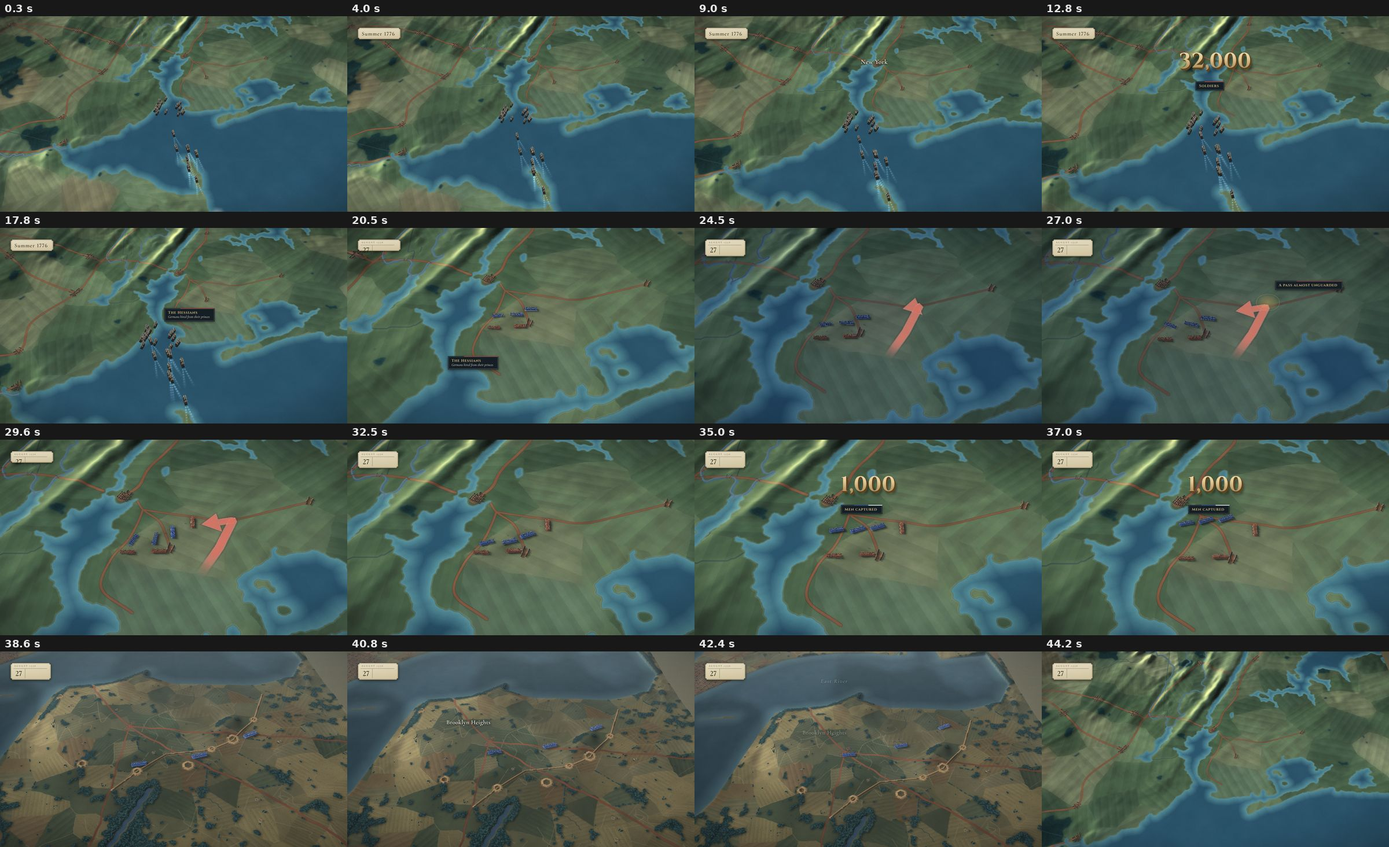
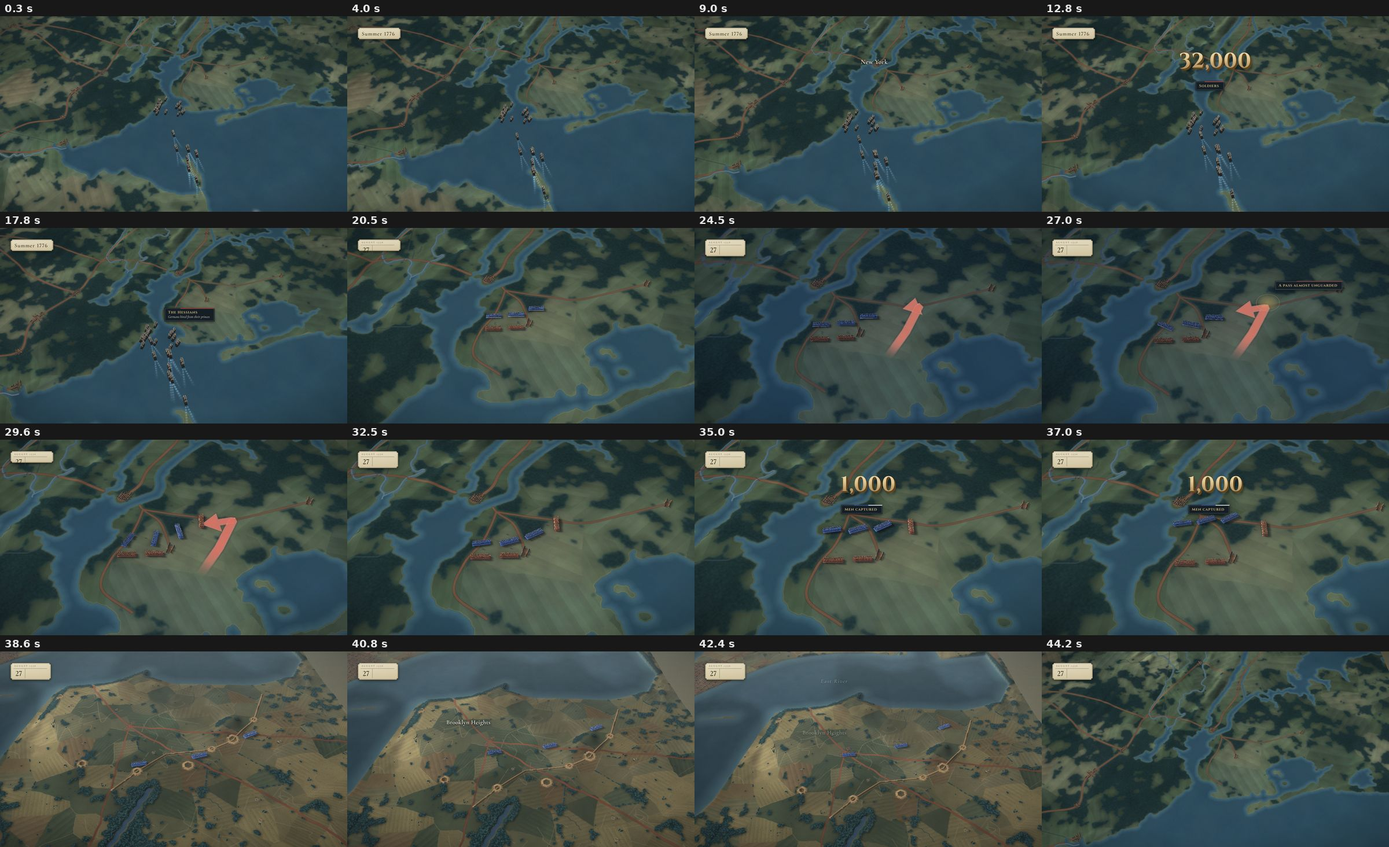
Washington: round-1 fixes S01 S02 S08 (author A)
Claude-Session: https://claude.ai/code/session_011uJnjBmWWPVu63DLzFZfyj

diff --git a/washington/sequences/S08/seq.js b/washington/sequences/S08/seq.js
@@ -68,7 +68,7 @@ window.SEQ = {
   generals: { washington: { img: "seq/washington.png", flag: "seq/grand_union_flag.png", side: "us", name: "Washington", full: "George Washington", role: "General" } },
   banners: [{ general: "washington", region: CO, keys: [[0, B0[0] + 7, B0[1] + 2], [0.4, B0[0] + 7, B0[1] + 2], [9.4, B1[0] + 7, B1[1] + 2]], t0: T.washington - 0.05, t1: 22.0 }],
   labels: [
-    { text: "Morristown", at: [MOR[0] + 16, MOR[1] + 6], size: 24, t0: T.morristown, t1: T.morristown + 3.6, region: CO },
+    { text: "Morristown", at: [MOR[0] + 26, MOR[1] + 8], size: 24, t0: T.morristown, t1: T.morristown + 3.6, region: CO },
     { text: "New Jersey", at: [430, 420], size: 26, t0: T.jersey, t1: T.jersey + 3.4, region: CO },
   ],
   fx: {},

diff --git a/washington/sequences/S01/NOTES.md b/washington/sequences/S01/NOTES.md
@@ -61,3 +61,21 @@ flags copied from `washington/assets/flags/` (Grand Union, 1707 Union Flag - unu
 - Boats show big dotted wakes at night (engine wake look); Durham boats are drawn at ~2x true size for readability.
 - `VX.rain` streaks are a 2D canvas: during the 19.9 dissolve the streak density drops at the cut (0.8 -> 0.45) rather than crossfading.
 - Brooklyn ferry points: the research landing points lie in the river; boats use the 1776 waterline (2479.4, 1146.4) / (2467.6, 1131.6).
+
+## Round 1 fixes (critics A 6 / B 7.5 on S01; lead: re-voiced "an icy river", D 73.98, region `colonieswinter`)
+- T re-timed from scene_times (washington 54.24, trap 57.14, storm2 60.78 ... these 68.38, moves 71.56; `frozen` -> `icy2`).
+- Date plate hidden over the August flashback and 2 January (`plaque.hide` at 29.96); the snap-cut plate 1776 - 1777 brings it back at 55.46.
+- Letter card held to 53.72 (T.george - 0.1), typed at cps 40 (complete ~51.5); dim to the same time.
+- NEW YEAR'S EVE tag without the early sub (the sub was on screen 3 s before "go home").
+- Trenton guns moved into word gaps: 20.0, 22.4, 23.95 (booms +0.45); no gun on "the Hessians at Trenton".
+- Orchard (G3): one volley line 63.6-64.2 (start of the shot) + one at 67.7-68.33 (gap after "behind it."), gun at 67.8; no fire under "strike behind it".
+- Troop motion: every visible move now runs straight down or across the screen (Greene south, Sullivan east, Hessians east, British army
+  south on 2 Jan, colonies posts from due north); the NE line on the Princeton road, the PA waiting lines and the NJ landed lines are
+  formed in place (no crab walks). Perth Amboy post dropped (off frame on the closer opening).
+- Bigger readable troops on the wide shots: opening camera 30 % closer (dist 330 -> 270 at the push), colonies lines bw 1.4-1.45; Brooklyn ring bw 0.6.
+- Night crossing: Durham boats x1.45 (size 0.9-1.0); 2,400 shot 15 % closer (dive `to` dist 26, key 23). Lamp glow size / floes = engine + world (not changed here).
+- Trenton 2 Jan camera 20 % closer (dist 45 -> 41).
+- Wide clouds: colonies `scatter { seed 3, n 10, med 18 }`, keepClear only on McConkey's (50) and the Brooklyn Heights (85: a cloud sat on the flashback at r 40).
+- Checks: check_troops_motion all regions: no overlaps / pops; one 20-deg world FvV for 4 frames at the end of the New Brunswick post's walk
+  (screen 14 deg); hard-cut / dissolve frames only. check_side_gap: 0 pairs in every region.
+- Not done here (lead / engine): dive whoosh level (assemble.py), floe density + lamp glow size (world / engine).

diff --git a/washington/sequences/S08/NOTES.md b/washington/sequences/S08/NOTES.md
@@ -31,3 +31,9 @@ No overlaps, no pops, no shape change, screen long-side-normal <= 4 deg, turn <=
 - The clean end window is ~17.3 s (narration ends 47.9 s), not 19 s.
 - The red-held tint polygons are approximate (a belt along the post roads, not a surveyed boundary).
 - The banner + MORRISTOWN sit in the top third of the frame (Morristown is far north of the posts); label moved right of the banner.
+
+## Round 1 fixes (critics A 6 / B 8 on S08; lead: region `colonieswinter`)
+- Subscribe button on its word (`tSub: T.subscribe - 0.1`).
+- Clouds: `scatter { seed 7, n 10, med 18 }`, keepClear only on Morristown / New Brunswick and the lower-right quarter (end-screen tiles).
+- Bigger lines (bw 1.6); New Brunswick targets spread (two red lines overlapped there from 14.7 s). MORRISTOWN label right of the banner.
+- Checks: check_troops_motion clean (no overlaps, no pops); check_side_gap 0 pairs.

diff --git a/washington/sequences/S02/NOTES.md b/washington/sequences/S02/NOTES.md
@@ -44,3 +44,10 @@ colonies + brooklyn: no overlaps, no pops, no shape change, screen long-side-nor
 ## Open issues
 - No banners (no general is named in S02). No sound cues (no fire on screen; the fight is shown as movement only).
 - Night on the wide map (0.55) is subtle.
+
+## Round 1 fixes (critics A 5.5 / B 7.5 on S02)
+- Readable troops on the Long Island shot: lines bw 0.45 -> 0.56; ridge spaced 10 units (no blue overlaps), the British front lines close
+  up only 1 unit on "fell on" (they touched the blue at 2.4), flank line ends at 645.
+- Wide clouds: `scatter { seed 3, n 10, med 18 }`, keepClear radius <= 45 on the action.
+- Colonies (summer) re-baked by the worlds agent (lower relief, darker woods); no world files touched here.
+- Checks: check_troops_motion colonies + brooklyn clean (only the 37.4 dissolve frame); check_side_gap 0 pairs.
